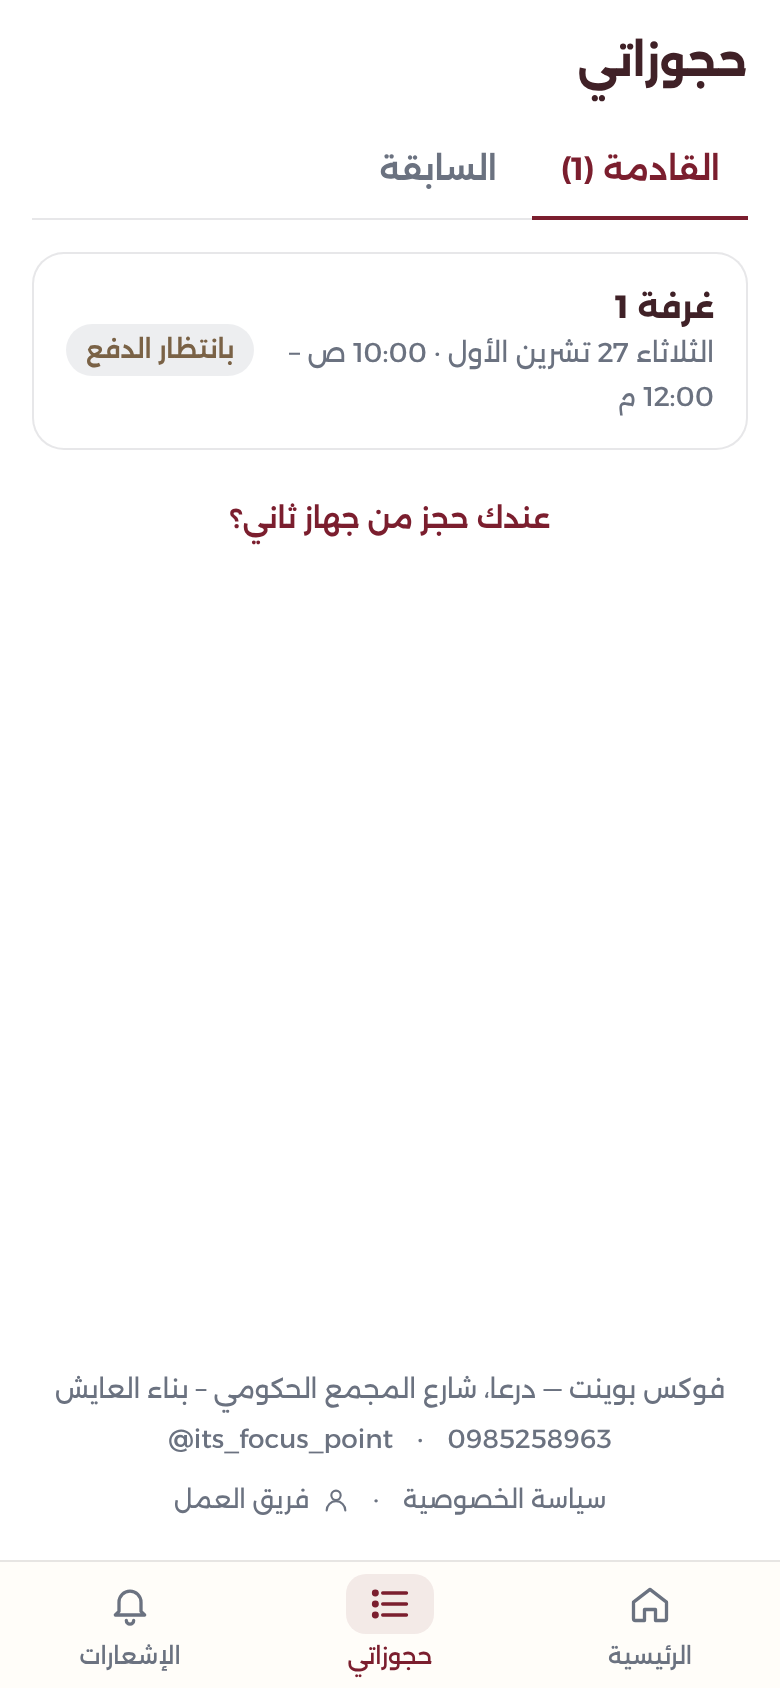
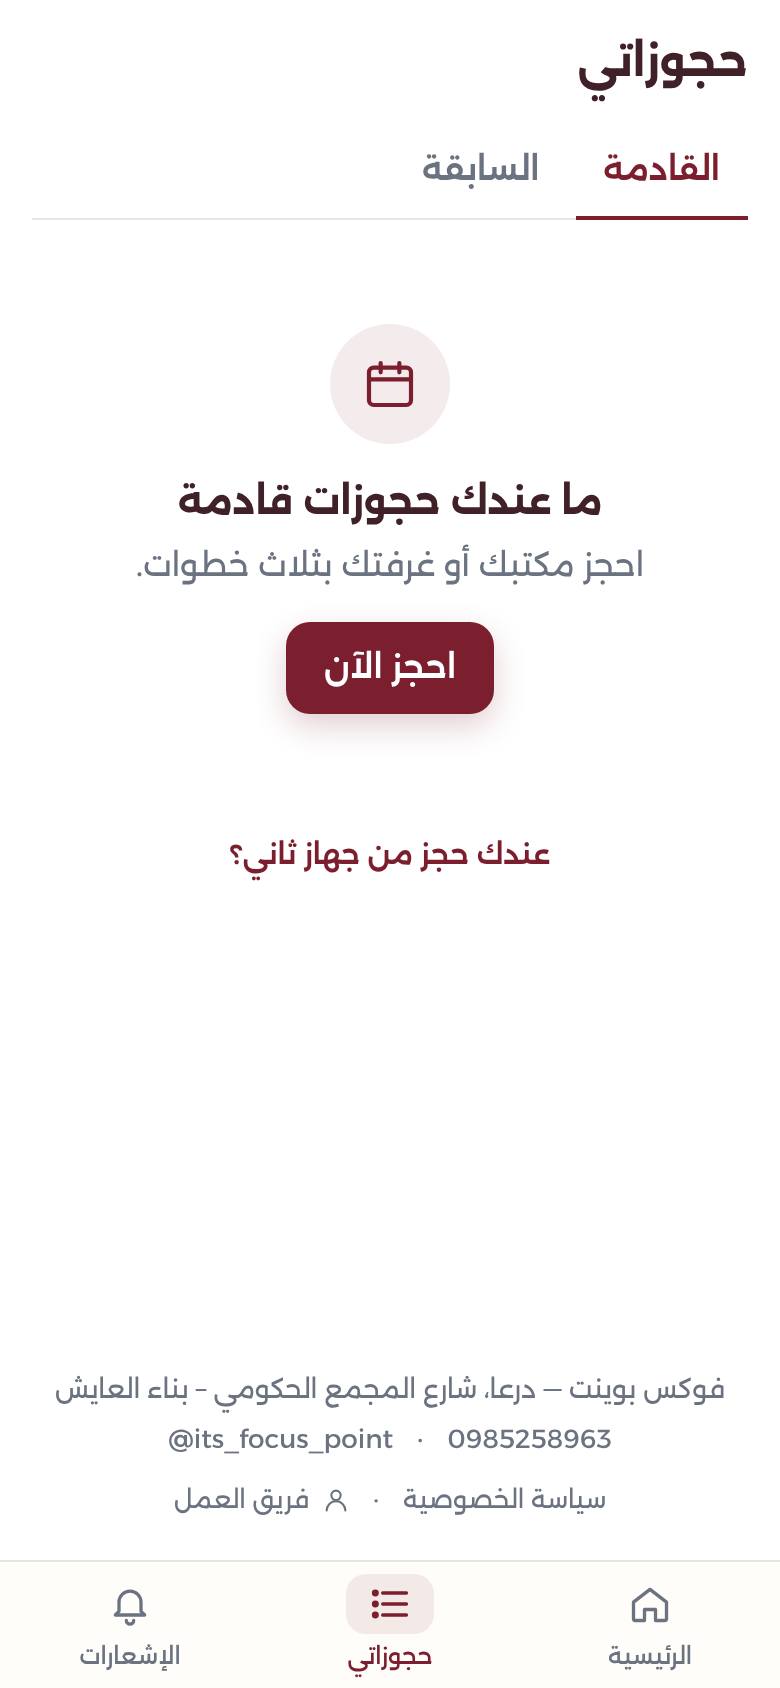
Web: neutral greys for the floor plan and editor (last beige tones removed)
Claude-Session: https://claude.ai/code/session_01XxV7HJFvPUvC3H7zrEEocs

diff --git a/focuspoint/web/src/styles.css b/focuspoint/web/src/styles.css
@@ -298,17 +298,17 @@ input[dir='ltr'].input { text-align: left; }
 
 /* ---- floor plan ---- */
 .plan { width: 100%; height: auto; font-family: var(--font); }
-.plan-floor { fill: #fbf8f3; stroke: var(--line); stroke-width: 0.4; }
-.plan-wall { fill: #eee7df; }
+.plan-floor { fill: #ffffff; stroke: var(--line); stroke-width: 0.4; }
+.plan-wall { fill: #f3f4f6; }
 .plan-room rect { stroke-width: 0.6; transition: fill 0.15s ease; }
 .plan-room.is-free rect { fill: var(--cream); stroke: var(--wine); }
-.plan-room.is-busy rect { stroke: #cfc6bd; }
+.plan-room.is-busy rect { stroke: #d1d5db; }
 .plan-room.is-selected rect { fill: var(--wine); stroke: var(--wine); }
-.plan-room.is-inactive rect { fill: #f1ece6; stroke: #e2dad2; }
+.plan-room.is-inactive rect { fill: #f9fafb; stroke: #e5e7eb; }
 .plan-room text { pointer-events: none; }
 .plan-name { fill: var(--plum); font-weight: 600; }
 .plan-cap { fill: var(--mute); }
-.plan-room.is-busy .plan-name, .plan-room.is-busy .plan-cap { fill: #9a8f8a; }
+.plan-room.is-busy .plan-name, .plan-room.is-busy .plan-cap { fill: #9ca3af; }
 .plan-room.is-selected .plan-name { fill: #fff; }
 .plan-room.is-selected .plan-cap { fill: rgba(255, 255, 255, 0.8); }
 .plan-room.is-inactive .plan-name, .plan-room.is-inactive .plan-cap { fill: #b8aea8; }
@@ -318,7 +318,7 @@ input[dir='ltr'].input { text-align: left; }
 .plan-label { fill: var(--mute); font-weight: 500; letter-spacing: 0.02em; }
 .legend { display: flex; gap: 14px; flex-wrap: wrap; font-size: 0.78rem; color: var(--mute); margin-top: 10px; }
 .legend-dot { width: 12px; height: 12px; border-radius: 4px; display: inline-block; margin-inline-end: 6px; vertical-align: -2px; border: 1px solid var(--wine); background: var(--cream); }
-.legend-dot.busy { background: repeating-linear-gradient(45deg, #ece6df 0 2px, #cfc6bd 2px 3px); border-color: #cfc6bd; }
+.legend-dot.busy { background: repeating-linear-gradient(45deg, #f3f4f6 0 2px, #d1d5db 2px 3px); border-color: #d1d5db; }
 .legend-dot.selected { background: var(--wine); }
 
 /* ---- room list ---- */

diff --git a/focuspoint/web/src/team/team.css b/focuspoint/web/src/team/team.css
@@ -191,9 +191,9 @@
 .pe-svg { display: block; width: 100%; height: auto; touch-action: none; user-select: none; -webkit-user-select: none; outline: none; border-radius: 10px; }
 .pe-svg .floor { fill: #fff; stroke: var(--line); }
 .pe-svg .gridline { stroke: rgba(17, 24, 39, 0.06); }
-.pe-svg .wall { fill: #ebe4dc; stroke: #d6ccc2; cursor: move; }
+.pe-svg .wall { fill: #e5e7eb; stroke: #d6ccc2; cursor: move; }
 .pe-svg .room { fill: var(--cream); stroke: var(--wine); stroke-width: 1.5; cursor: move; }
-.pe-svg .room.is-inactive { fill: #f1ece6; stroke: #cfc6bd; stroke-dasharray: 4 3; }
+.pe-svg .room.is-inactive { fill: #f9fafb; stroke: #d1d5db; stroke-dasharray: 4 3; }
 .pe-svg .room-text { fill: var(--plum); font-weight: 700; pointer-events: none; font-family: var(--font); }
 .pe-svg .room-cap { fill: var(--mute); pointer-events: none; font-family: var(--font); }
 .pe-svg .label { fill: var(--mute); font-family: var(--font); cursor: move; }
